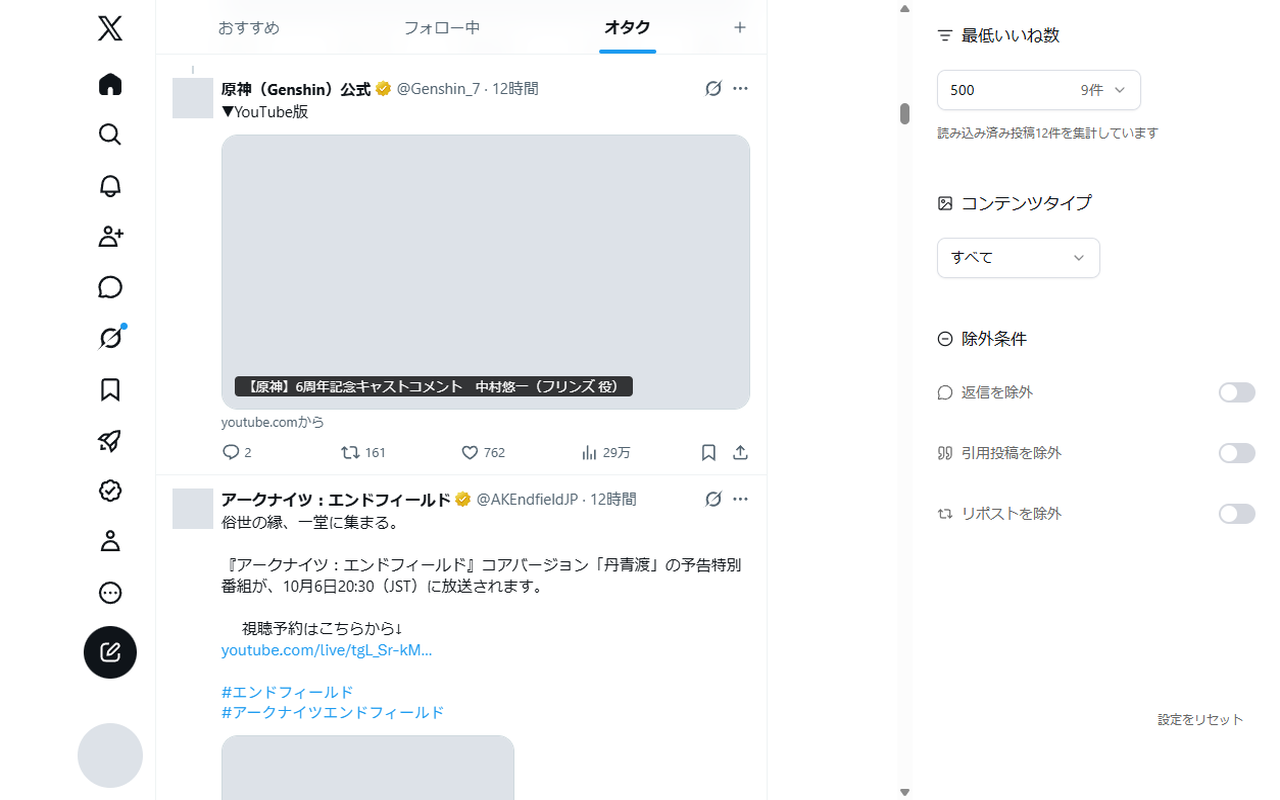
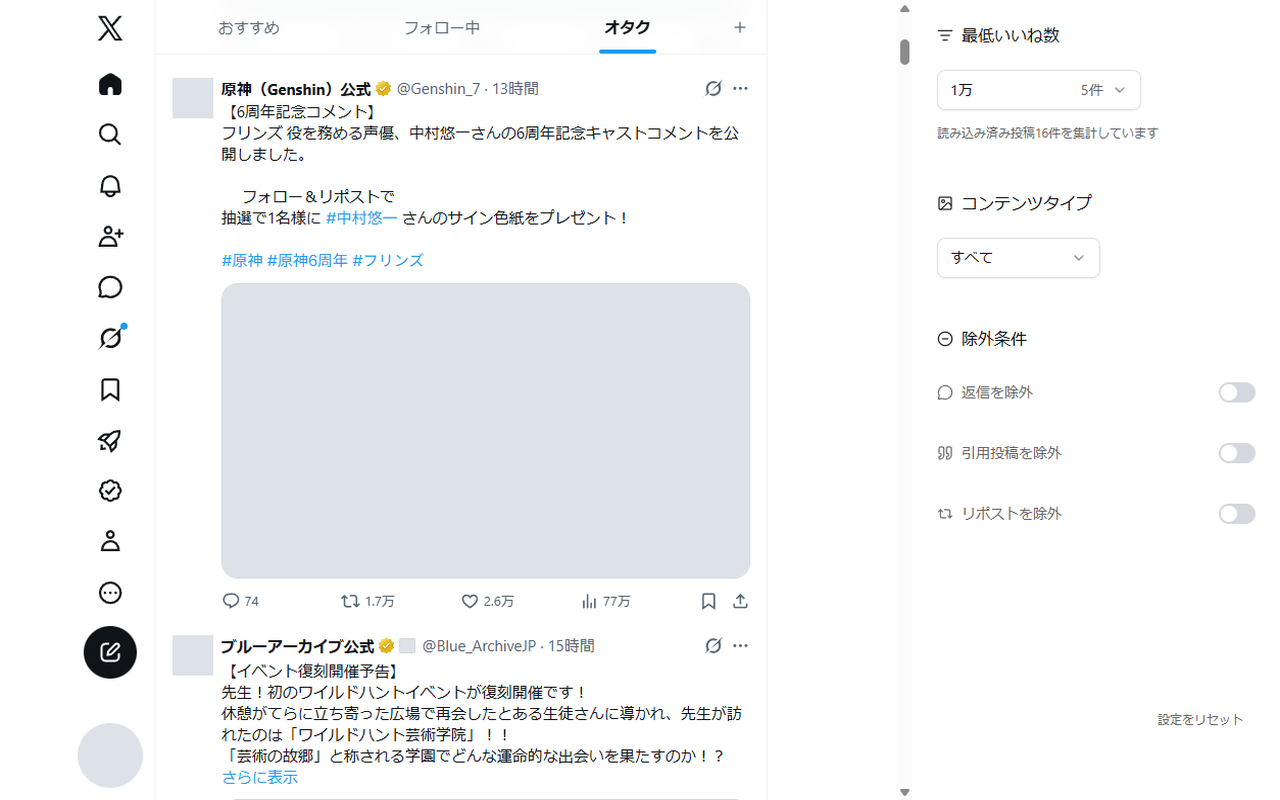
掲載画像のしきい値を1万いいねと30万再生に上げる

diff --git a/store-assets/screenshots/README.md b/store-assets/screenshots/README.md
@@ -6,8 +6,8 @@
 
 | 対象 | 絞り込み前 | 絞り込み後 | 確認した変化 |
 | --- | --- | --- | --- |
-| X の固定リスト「オタク」 | [指定なし](sift-x-before-ja.png) | [最低いいね数500](sift-x-ja.png) | 331いいねの投稿が消え、762いいねの投稿が残る |
-| YouTube のブルーアーカイブ公式チャンネル | [指定なし](sift-youtube-before-ja.png) | [最低再生回数10万](sift-youtube-ja.png) | 4.1万・6.5万・9.8万回などの動画が消え、13万・15万・26万・35万回の動画が残る |
+| X の固定リスト「オタク」 | [指定なし](sift-x-before-ja.png) | [最低いいね数1万](sift-x-ja.png) | 335・775いいねの投稿が消え、2.6万いいねの投稿が残る |
+| YouTube のブルーアーカイブ公式チャンネル | [指定なし](sift-youtube-before-ja.png) | [最低再生回数30万](sift-youtube-ja.png) | 30万回未満の動画が消え、35万・108万・55万・36万回の動画が残る |
 
 前後で同じリスト・チャンネルを使い、条件による非表示理由も実ページで確認した。数値は撮影時点のもの。読み込み済み件数はスクロールに伴って増えるため、前後の件数だけから除外数を判断しない。
 
